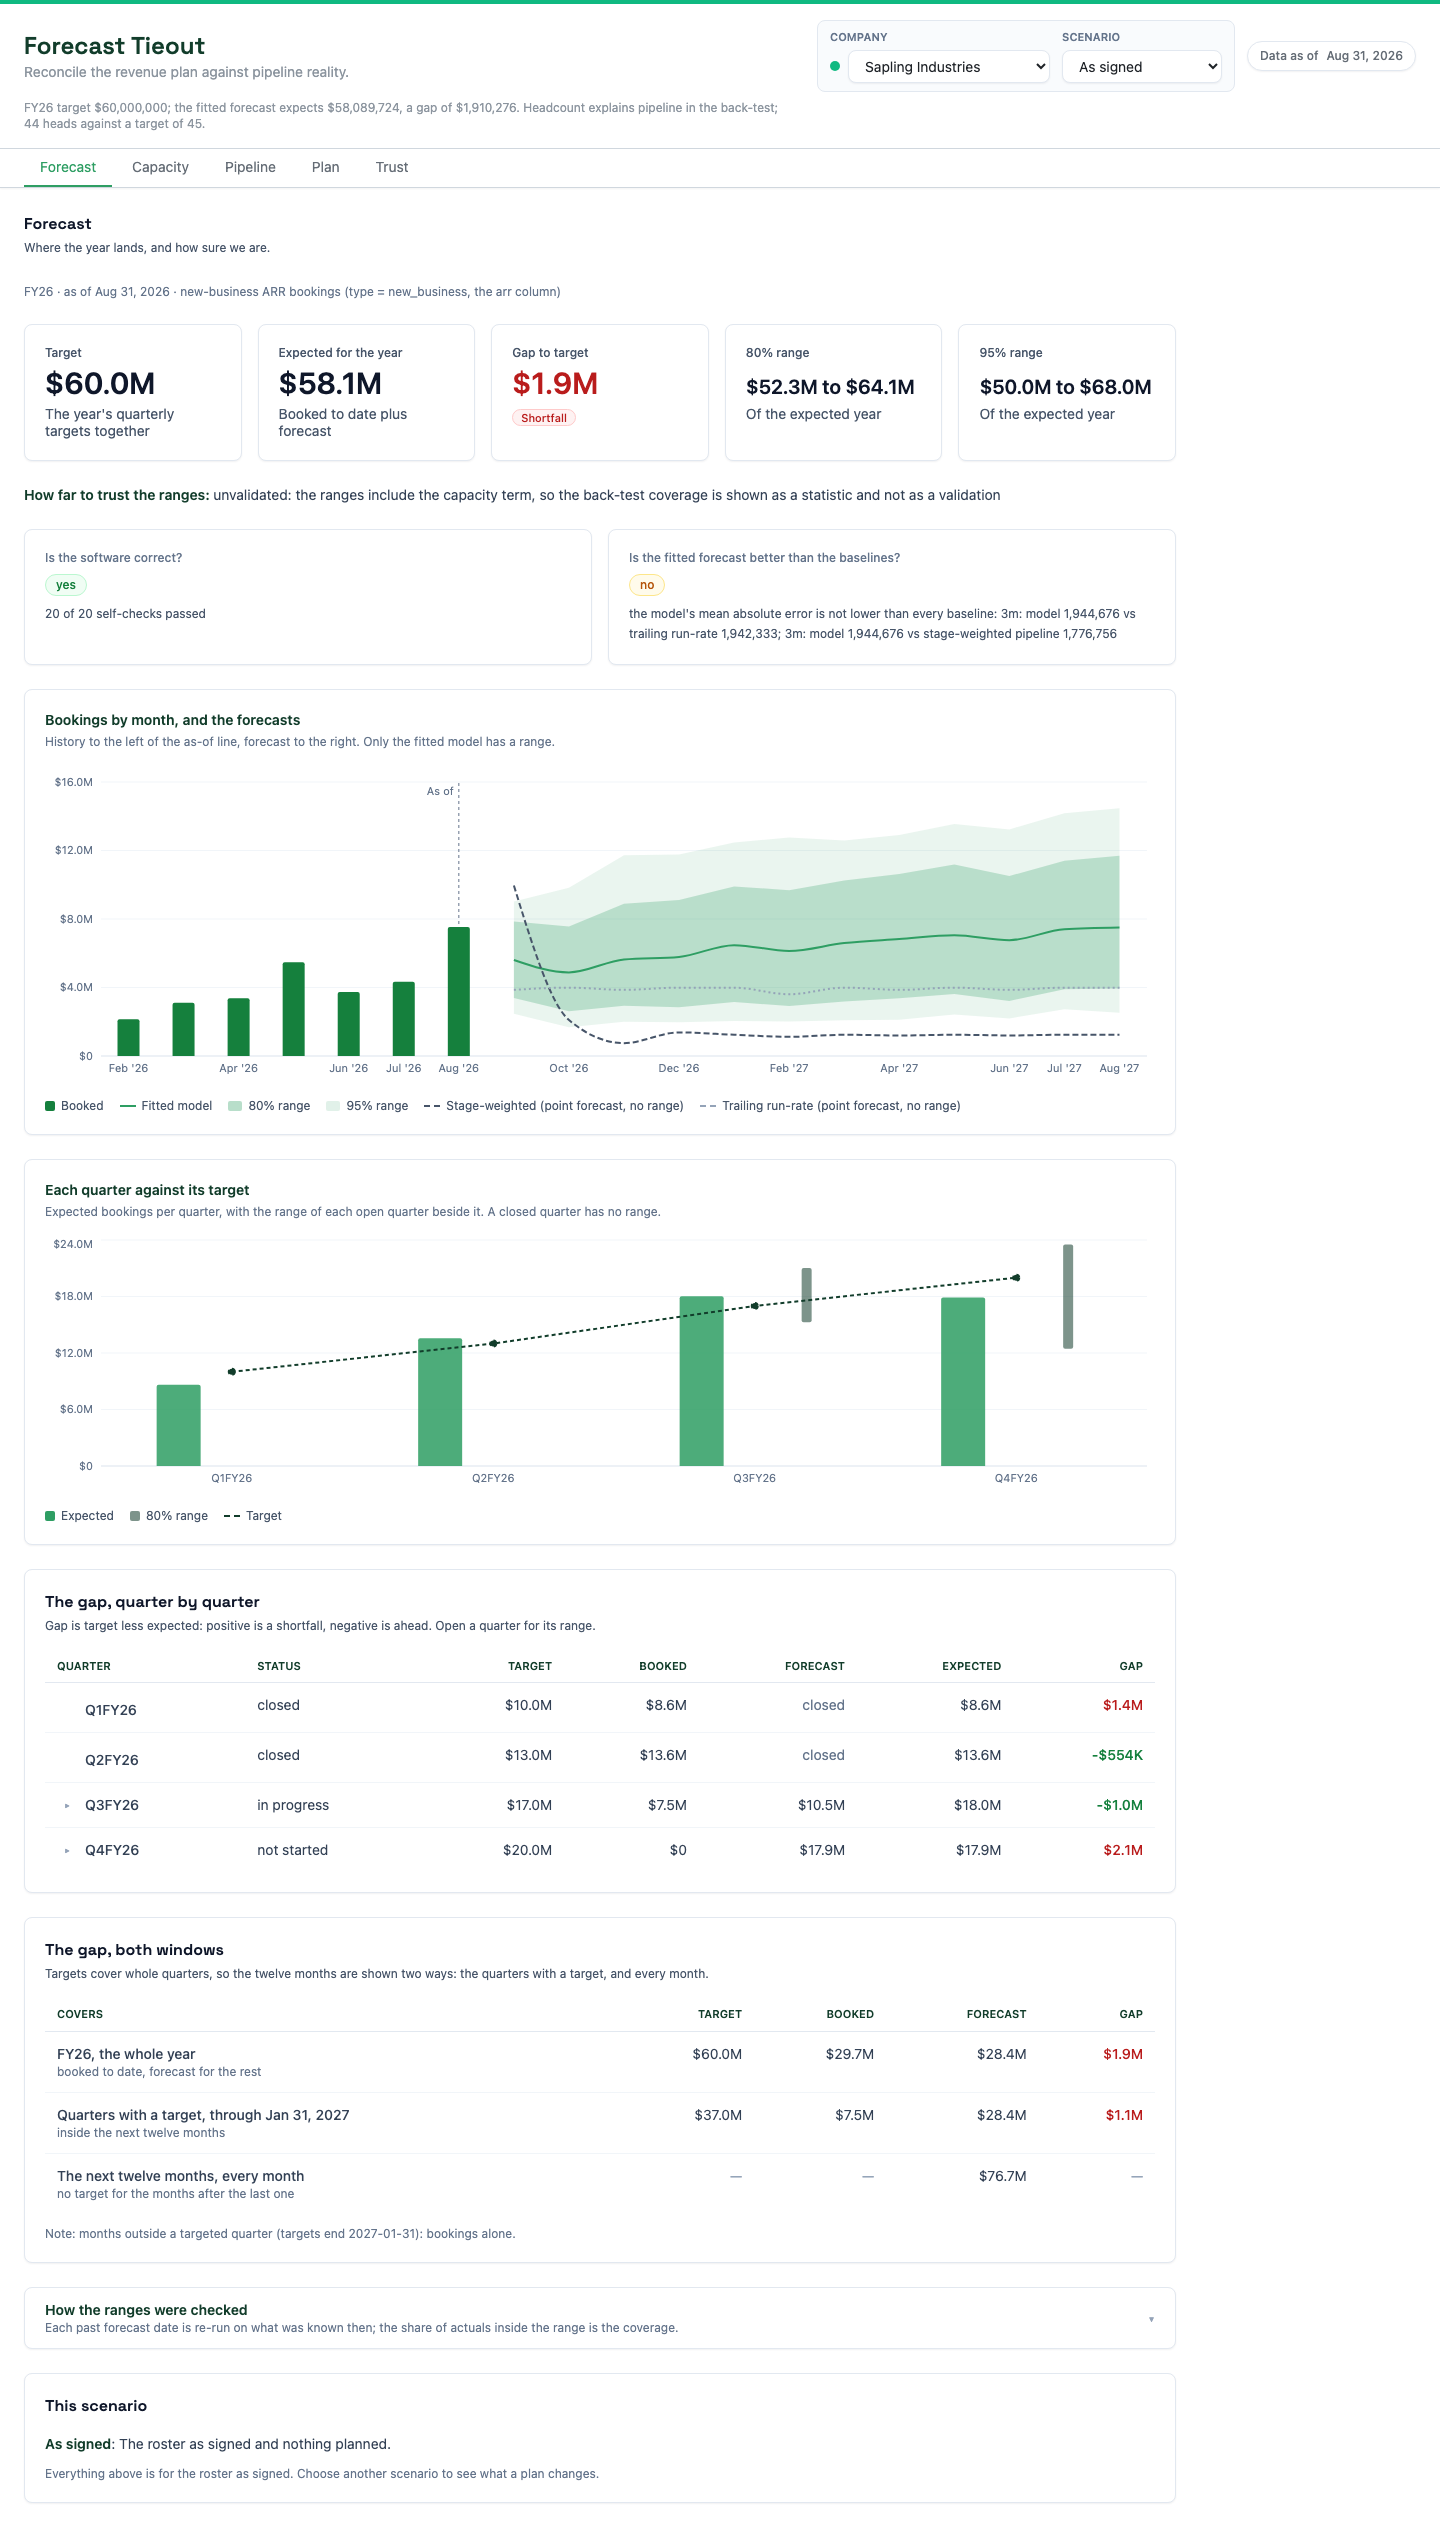
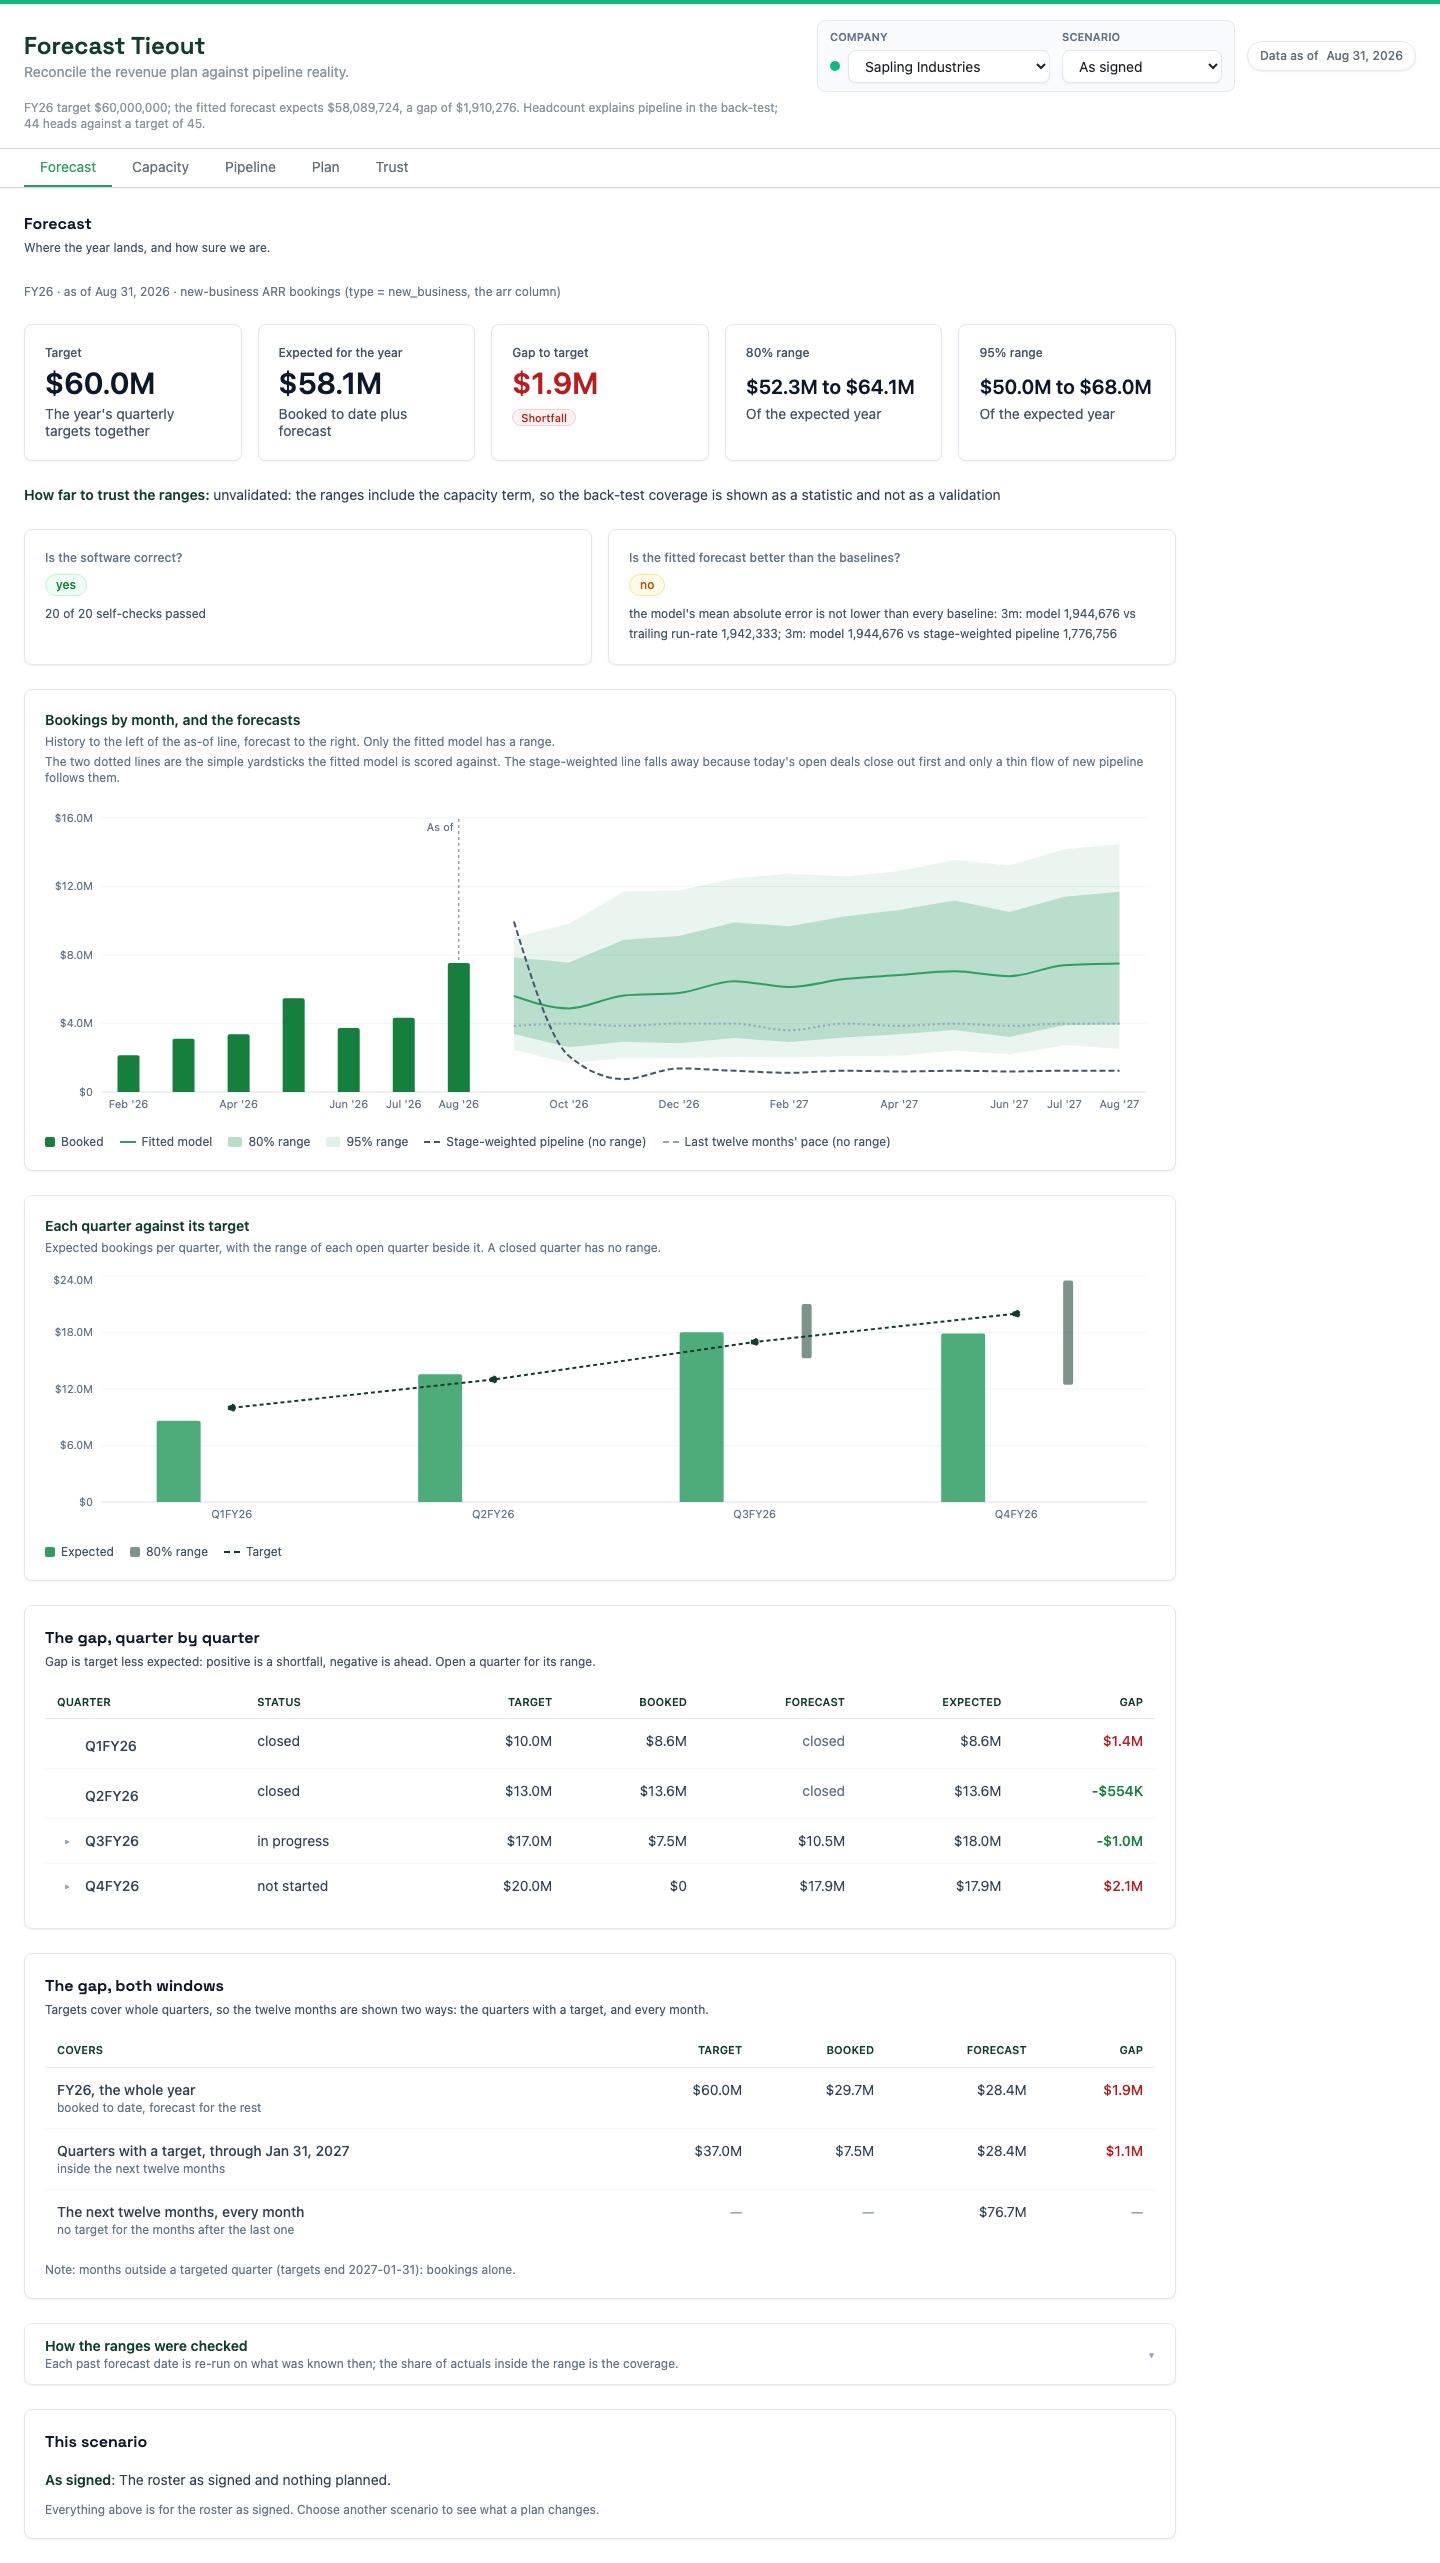
fix(app): say what the two baselines are
Legend and tooltip labels: 'Stage-weighted pipeline (no range)' and 'Last twelve months' pace (no
range)' (they said 'point forecast'). A line under the monthly chart's subtitle says the dotted
lines are the yardsticks the fitted model is scored against and why the stage-weighted one falls
away (today's open deals close out first; only new pipeline at the trailing rate follows). The
Trust back-test headings use the same names. The stage-weighted baseline includes new pipeline at
the trailing creation rate, so it is not labeled 'open deals only'. Labels are static screen
strings; the report carries only method ids. 'Twelve' is spelled out because the digit rule
allows no digit outside a bound element. Tests changed first; screenshots retaken.

diff --git a/frontend/src/screens/trust/TrustScreen.tsx b/frontend/src/screens/trust/TrustScreen.tsx
@@ -144,7 +144,7 @@ export default function TrustScreen() {
               <TableHeaderCell className="text-right">Past dates scored</TableHeaderCell>
               <TableHeaderCell className="text-right">Fitted model</TableHeaderCell>
               <TableHeaderCell className="text-right">Stage-weighted pipeline</TableHeaderCell>
-              <TableHeaderCell className="text-right">Trailing run-rate</TableHeaderCell>
+              <TableHeaderCell className="text-right">Last twelve months' pace</TableHeaderCell>
               <TableHeaderCell className="text-right">Fitted model's bias</TableHeaderCell>
               <TableHeaderCell className="text-right">Dates with a range</TableHeaderCell>
               <TableHeaderCell className="text-right">Inside the 80% range</TableHeaderCell>
@@ -160,7 +160,7 @@ export default function TrustScreen() {
                   <TableCell className={STACK.cell} data-label="Past dates scored"><Bound binding={B.btFolds} row={row} /></TableCell>
                   <TableCell className={`${STACK.cell} font-medium`} data-label="Fitted model"><Bound binding={B.btFitted} row={row} /></TableCell>
                   <TableCell className={STACK.cell} data-label="Stage-weighted pipeline"><Bound binding={B.btStage} row={row} /></TableCell>
-                  <TableCell className={STACK.cell} data-label="Trailing run-rate"><Bound binding={B.btRunRate} row={row} /></TableCell>
+                  <TableCell className={STACK.cell} data-label="Last twelve months' pace"><Bound binding={B.btRunRate} row={row} /></TableCell>
                   <TableCell className={STACK.cell} data-label="Fitted model's bias"><Bound binding={B.btBias} row={row} /></TableCell>
                   <TableCell className={STACK.cell} data-label="Dates with a range"><Bound binding={B.btRangeFolds} row={row} /></TableCell>
                   <TableCell className={STACK.cell} data-label="Inside the 80% range"><Bound binding={B.btCover80} row={row} /></TableCell>

diff --git a/frontend/src/screens/__tests__/ForecastScreen.test.tsx b/frontend/src/screens/__tests__/ForecastScreen.test.tsx
@@ -82,11 +82,23 @@ describe("Forecast: every binding (with its provenance), every digit", () => {
     ]) expect(ids.has(id), id).toBe(true);
   });
 
-  it("shows the baselines as point forecasts with no range", () => {
+  it("names the baselines for what they are, with no range", () => {
     const c = caseOf("sapling-industries", "as-signed");
     const container = mount(c, c.company, c.scenario);
-    expect(container.textContent).toContain("Stage-weighted (point forecast, no range)");
-    expect(container.textContent).toContain("Trailing run-rate (point forecast, no range)");
+    expect(container.textContent).toContain("Stage-weighted pipeline (no range)");
+    expect(container.textContent).toContain("Last twelve months' pace (no range)");
+    expect(container.textContent).not.toContain("point forecast");
+    expect(container.textContent).not.toContain("Trailing run-rate");
+  });
+
+  it("says under the monthly chart what the two dotted lines are and why the stage-weighted one falls away", () => {
+    const c = caseOf("sapling-industries", "as-signed");
+    const container = mount(c, c.company, c.scenario);
+    const note = container.querySelector("[data-testid='baseline-note']");
+    expect(note?.textContent).toBe(
+      "The two dotted lines are the simple yardsticks the fitted model is scored against. The stage-weighted line falls away because today's open deals close out first and only a thin flow of new pipeline follows them.",
+    );
+    expect(note?.textContent).not.toMatch(/\d/);
   });
 });
 

diff --git a/frontend/src/screens/forecast/bindings.ts b/frontend/src/screens/forecast/bindings.ts
@@ -164,8 +164,8 @@ export function monthlySeries(planned: boolean) {
     booked: { key: "booked", label: "Booked", kind: "decimal", path: "/reconciliation/bookings_by_month/{period}", periods: { keysAt: "/reconciliation/bookings_by_month" } },
     signed: { key: "signed", label: "Fitted model, as signed", kind: "decimal", path: METHOD("fitted model"), periods: WINDOWS },
     fitted,
-    stage: { key: "stage", label: "Stage-weighted (point forecast, no range)", kind: "decimal", path: METHOD("stage-weighted pipeline"), periods: WINDOWS },
-    runRate: { key: "runRate", label: "Trailing run-rate (point forecast, no range)", kind: "decimal", path: METHOD("trailing run-rate"), periods: WINDOWS },
+    stage: { key: "stage", label: "Stage-weighted pipeline (no range)", kind: "decimal", path: METHOD("stage-weighted pipeline"), periods: WINDOWS },
+    runRate: { key: "runRate", label: "Last twelve months' pace (no range)", kind: "decimal", path: METHOD("trailing run-rate"), periods: WINDOWS },
     band80: { key: "band80", label: "80% range", kind: "range", path: range("range80"), periods: WINDOWS },
     band95: { key: "band95", label: "95% range", kind: "range", path: range("range95"), periods: WINDOWS },
   } as const satisfies Record<string, SeriesSpec>;

diff --git a/frontend/e2e/forecast.spec.ts b/frontend/e2e/forecast.spec.ts
@@ -158,8 +158,8 @@ async function expectTooltipsMatchReport(page: Page, r: Report, spreads: Record<
     ["80% range", `${usdShort(spread.range80[0])} to ${usdShort(spread.range80[1])}`],
     ...(planned ? [["Fitted model, as signed", usdShort(method("fitted model").by_window[future])] as [string, string]] : []),
     [planned ? "Fitted model, with this scenario" : "Fitted model", usdShort(fittedValue)],
-    ["Stage-weighted (point forecast, no range)", usdShort(method("stage-weighted pipeline").by_window[future])],
-    ["Trailing run-rate (point forecast, no range)", usdShort(method("trailing run-rate").by_window[future])],
+    ["Stage-weighted pipeline (no range)", usdShort(method("stage-weighted pipeline").by_window[future])],
+    ["Last twelve months' pace (no range)", usdShort(method("trailing run-rate").by_window[future])],
   ];
   expect(hf.header, `${label} ${future}`).toBe(month(future));
   expect(hf.rows, `${label} ${future}: every forecast, with its value`).toEqual(want);

diff --git a/frontend/src/screens/forecast/MonthlyChart.tsx b/frontend/src/screens/forecast/MonthlyChart.tsx
@@ -53,6 +53,9 @@ export function MonthlyChart({ available, planned }: { available: Availability; 
       <p className="mb-4 text-xs text-slate-500">
         History to the left of the as-of line, forecast to the right. Only the fitted model has a range.
       </p>
+      <p className="-mt-3 mb-4 text-xs text-slate-500" data-testid="baseline-note">
+        The two dotted lines are the simple yardsticks the fitted model is scored against. The stage-weighted line falls away because today&apos;s open deals close out first and only a thin flow of new pipeline follows them.
+      </p>
       <ResponsiveContainer width="100%" height={320}>
         <ComposedChart data={rows} margin={{ top: 16, right: 8, left: 0, bottom: 0 }}>
           <CartesianGrid horizontal={GRID_STYLE.horizontal} vertical={GRID_STYLE.vertical} stroke={GRID_STYLE.stroke} strokeDasharray={GRID_STYLE.strokeDasharray} />

diff --git a/frontend/src/screens/__tests__/TrustScreen.test.tsx b/frontend/src/screens/__tests__/TrustScreen.test.tsx
@@ -22,6 +22,15 @@ runScreenChecks({
   probe: "recon.source-rows",
   more: () => {
     describe("Trust: the screen's own claims", () => {
+      it("the back-test headings name the two baselines the way Forecast does", () => {
+        const c = caseOf("sapling-industries", "as-signed");
+        const container = mountScreen(TrustScreen, c, c.company, c.scenario);
+        const heads = [...container.querySelectorAll("th")].map((h) => h.textContent);
+        expect(heads).toContain("Stage-weighted pipeline");
+        expect(heads).toContain("Last twelve months' pace");
+        expect(heads).not.toContain("Trailing run-rate");
+      });
+
       it("both verdicts lead, with their reasons, as the report words them", () => {
         for (const company of files.COMPANIES) {
           const c = caseOf(company, "as-signed");

diff --git a/frontend/src/screens/forecast/ForecastScreen.tsx b/frontend/src/screens/forecast/ForecastScreen.tsx
@@ -127,7 +127,7 @@ export default function ForecastScreen() {
       ) : null}
       {!available.runRate ? (
         <p className="-mt-3 text-xs text-slate-500">
-          Trailing run-rate: <Bound binding={B.runRateUnavailable} />
+          Last twelve months' pace: <Bound binding={B.runRateUnavailable} />
         </p>
       ) : null}
 
